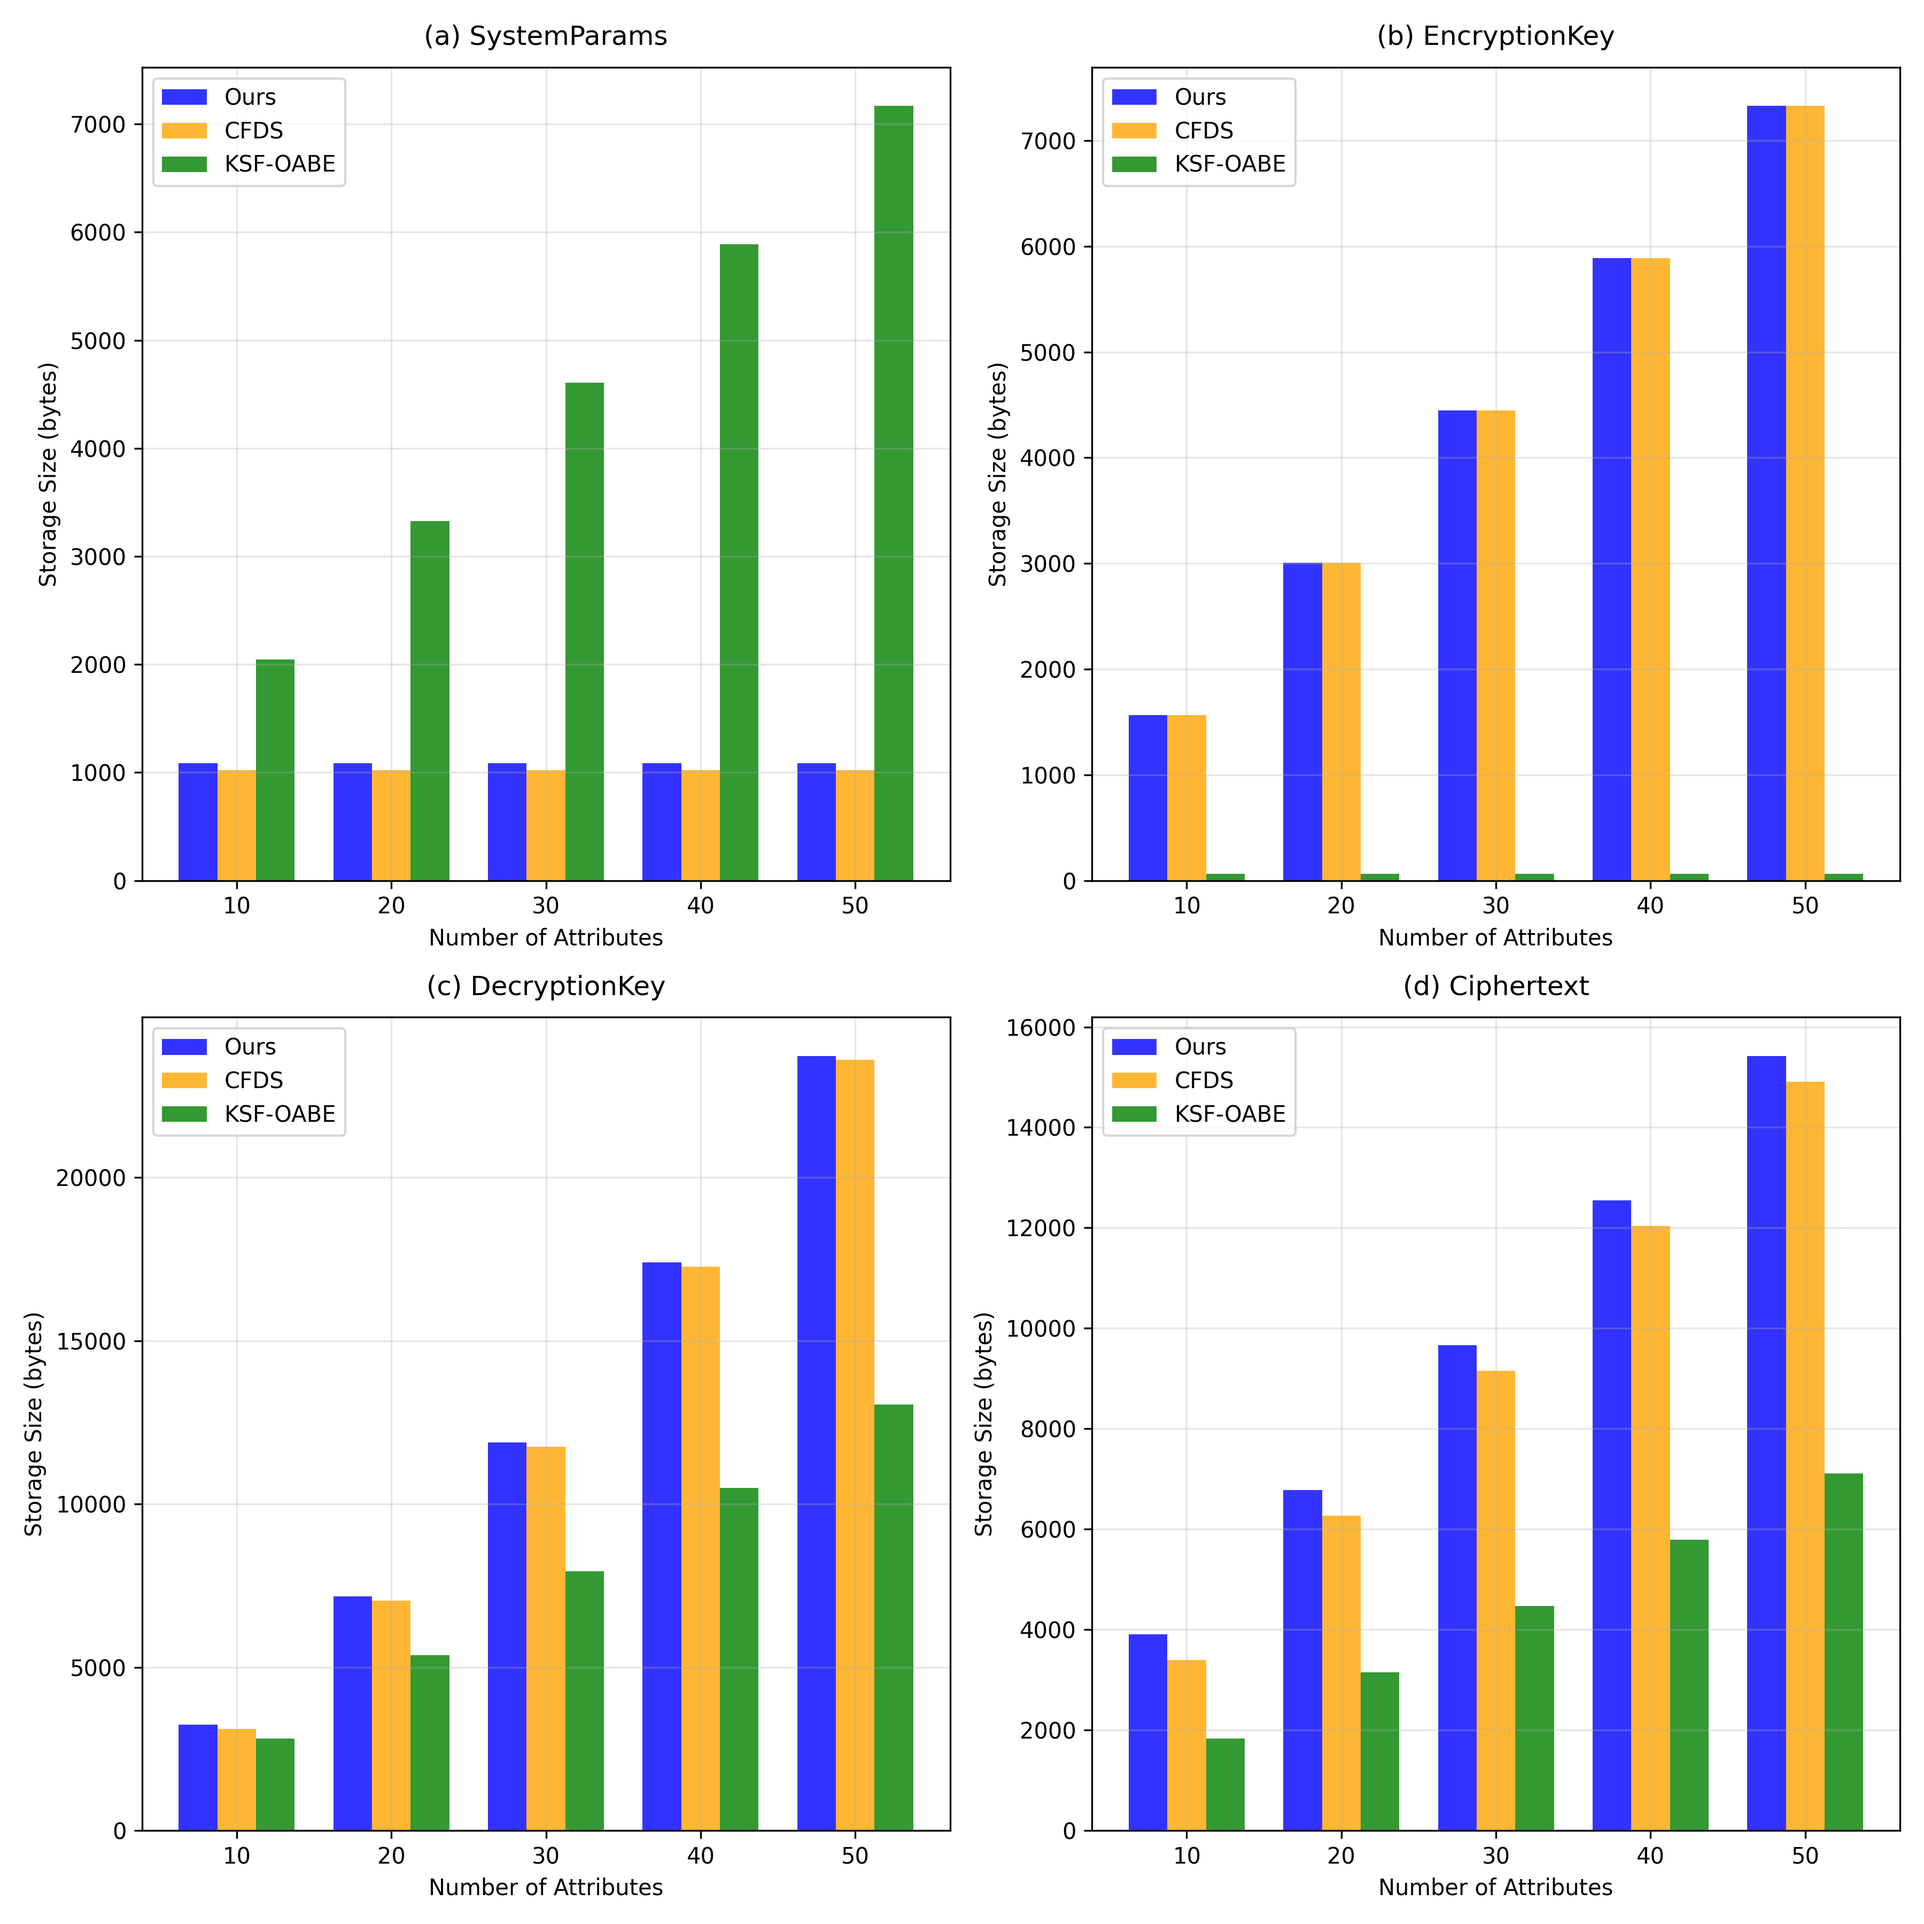
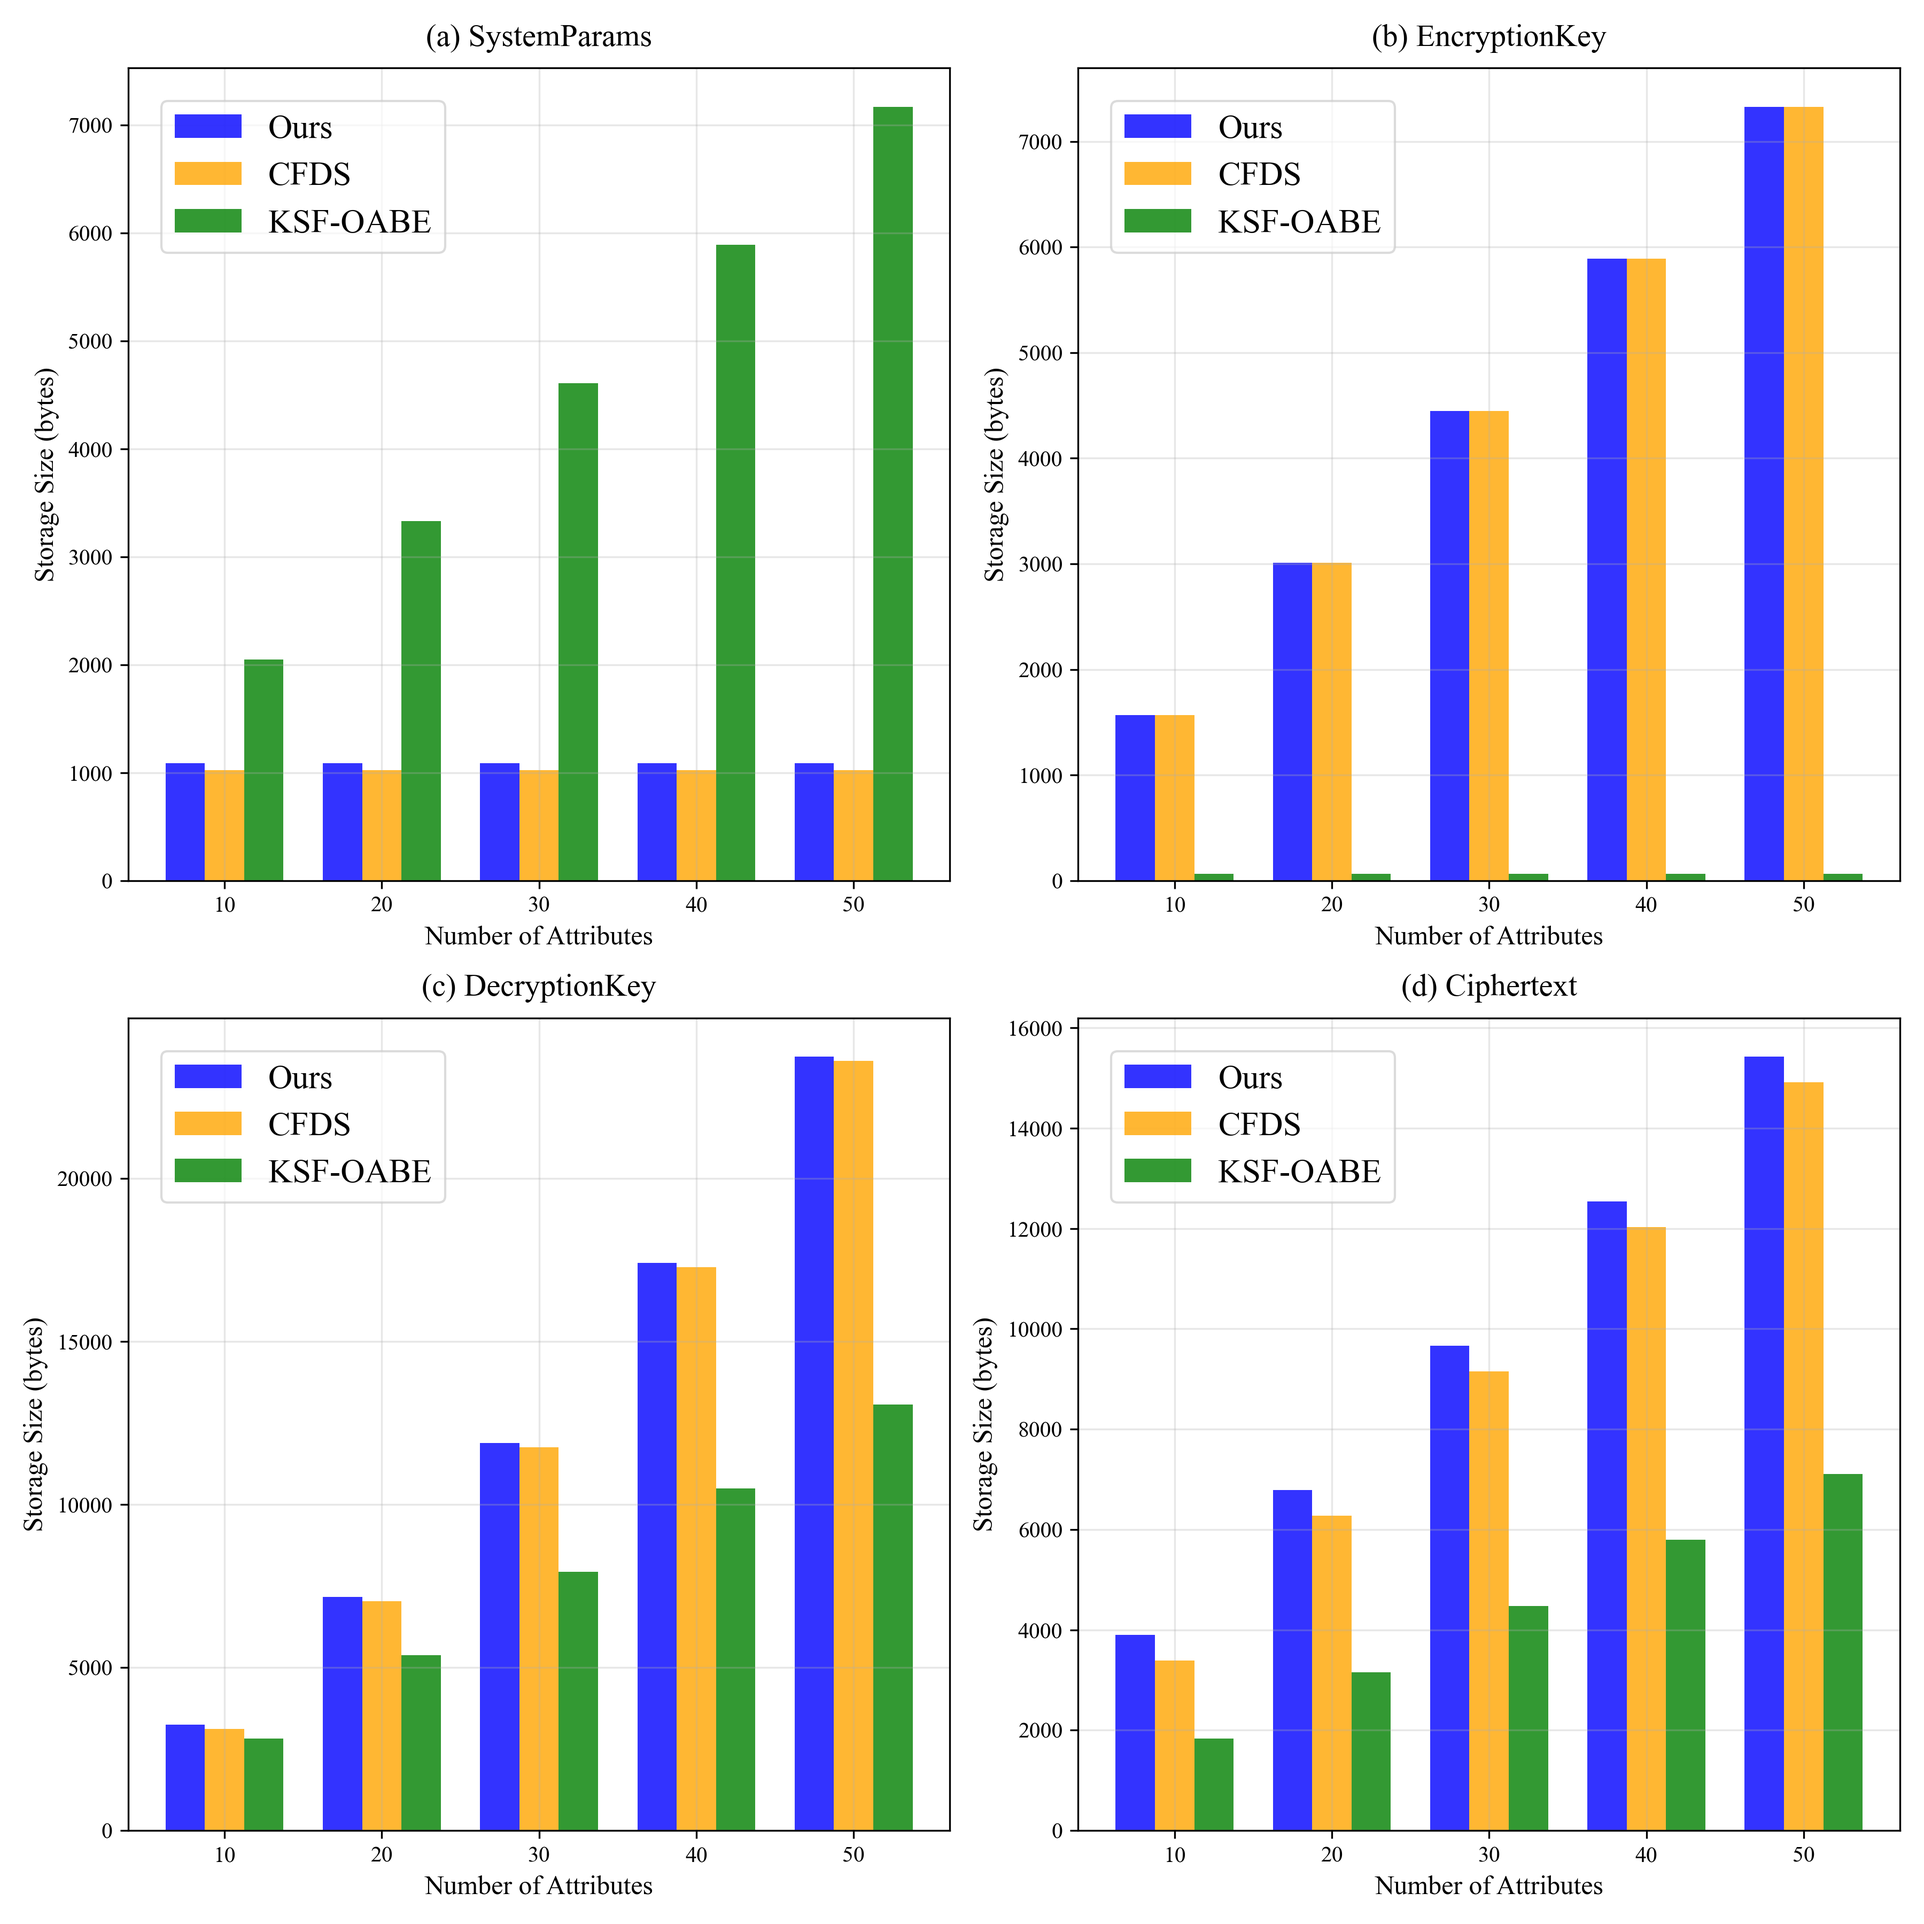
存储统计图优化

diff --git a/data/data-storage/draw-storage.py b/data/data-storage/draw-storage.py
@@ -9,7 +9,16 @@ current_dir = os.path.dirname(os.path.abspath(__file__))
 # 读取三个CSV文件，使用正确的相对路径
 bac_pe_data = pd.read_csv(os.path.join(current_dir, '../data-storage/bac_pe_storage_data.csv'))
 cfds_data = pd.read_csv(os.path.join(current_dir, '../data-storage/cfds_storage_data.csv'))
-pre_se_data = pd.read_csv(os.path.join(current_dir, '../data-storage/ksf_oabe_storage_data.csv'))
+ksf_oabe_data = pd.read_csv(os.path.join(current_dir, '../data-storage/ksf_oabe_storage_data.csv'))
+
+# 设置全局字体
+plt.rcParams.update({
+    'font.family': 'Times New Roman',
+    'font.size': 10,
+    'axes.titlesize': 14,
+    'axes.labelsize': 12,
+    'legend.fontsize': 15,  # 增大图例字体
+})
 
 # 设置图形大小和布局
 fig, axs = plt.subplots(2, 2, figsize=(12, 12))  # 减小图形整体宽度
@@ -42,19 +51,20 @@ for idx, component in enumerate(components):
         elif scheme == 'CFDS':
             data = cfds_data
         else:
-            data = pre_se_data
+            data = ksf_oabe_data
             
         values = [data[data['Component'] == component][str(point)].values[0] for point in attr_points]
         ax.bar(x + (i-1)*width, values, width, label=scheme, color=color, alpha=0.8)
     
     # 设置图形属性
-    ax.set_title(f'({chr(97+idx)}) {component}', pad=10)
+    ax.set_title(f'({chr(97+idx)}) {component}', pad=10, fontfamily='Times New Roman')
     ax.set_xticks(x)
     ax.set_xticklabels(attr_points)
-    ax.set_xlabel('Number of Attributes')
-    ax.set_ylabel('Storage Size (bytes)')
+    ax.set_xlabel('Number of Attributes', fontfamily='Times New Roman')
+    ax.set_ylabel('Storage Size (bytes)', fontfamily='Times New Roman')
     ax.grid(True, alpha=0.3)
-    ax.legend()
+    ax.legend(loc="upper left", fontsize=15, framealpha=0.7,
+             bbox_to_anchor=(0.02, 0.98))  # 调整图例位置和大小
 
 # 保存图片时调整边距
 plt.tight_layout()  # 自动调整边距
